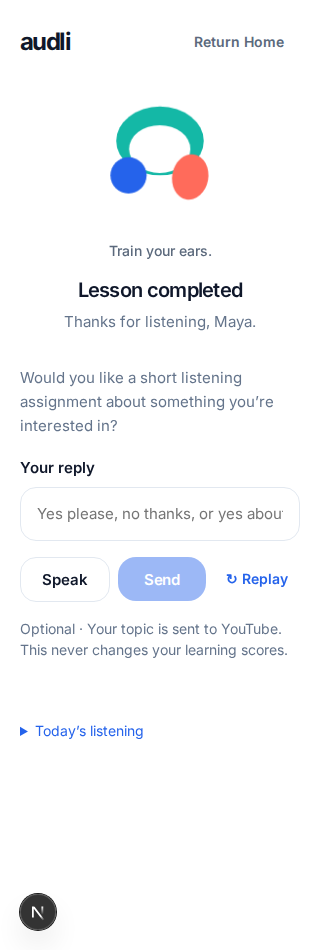
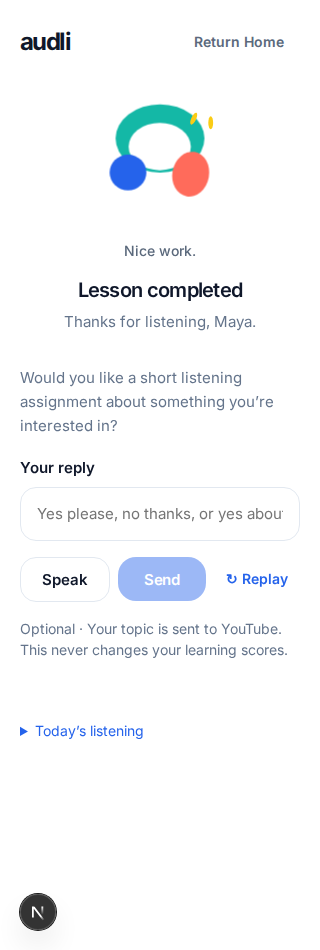
test(AUD-61): align completion and fallback acceptance with inline wrap-up

Changed region(s): [[0.3438, 0.0916, 0.6875, 0.2137], [0.3438, 0.2442, 0.6562, 0.2747]]

diff --git a/web/tests/structured-lesson.spec.ts b/web/tests/structured-lesson.spec.ts
@@ -215,14 +215,15 @@ test('processing acknowledgment is delayed and deduplicated across retry; topic 
   await expect(page.getByRole('heading',{name:'Lesson completed'})).toBeVisible();
 });
 
-for(const reducedMotion of [false,true])test(`completion cards and mascot respect ${reducedMotion?'reduced':'normal'} motion`,async({page})=>{
+for(const reducedMotion of [false,true])test(`compact completion summary and mascot respect ${reducedMotion?'reduced':'normal'} motion`,async({page})=>{
   await page.emulateMedia({reducedMotion:reducedMotion?'reduce':'no-preference'});
   await setup(page);await runToCompletion(page);
   await expect(page.getByRole('heading',{name:'Lesson completed'})).toBeFocused();
-  await expect(page.locator('.completion-card')).toHaveCount(3);
-  await expect(page.locator('.completion-count')).toHaveText('1');
-  await expect(page.locator('.lesson-completion .audli-mascot')).toHaveAttribute('aria-hidden','true');
-  const body=page.locator('.lesson-completion .mascot-body');
+  await expect(page.locator('.wrapup-summary')).not.toHaveAttribute('open');
+  await page.locator('.wrapup-summary summary').click();
+  await expect(page.locator('.wrapup-summary')).toContainText('1 exercise completed');
+  await expect(page.locator('.lesson-wrapup .audli-mascot')).toHaveAttribute('aria-hidden','true');
+  const body=page.locator('.lesson-wrapup .mascot-body');
   const animation=await body.evaluate(node=>getComputedStyle(node).animationName);
   expect(animation).toBe(reducedMotion?'none':'completion-arrive, mascot-breathe');
   if(!reducedMotion)await page.screenshot({path:'/tmp/aud22-completion-polish.png',fullPage:true,animations:'disabled'});

diff --git a/web/app/page.tsx b/web/app/page.tsx
@@ -333,7 +333,7 @@ function Product({ onRestart, reducedMotion, setReducedMotion }: { onRestart: (o
     <p className="sr-only">{prompt}</p>{error && <div role="alert" className="session-error">{error}<p>{prompt}</p><button className="secondary" onClick={retry}>Retry conversation</button>{(retained.current || personalCapture.current) && <button className="secondary" onClick={() => { retained.current = null; personalCapture.current = null; void retry(); }}>Record again</button>}</div>}
     {eligibleExercise && <details className="session-transcript"><summary>Transcript</summary>{transcript ? <p>{transcript.script}</p> : <button className="text-button" onClick={() => void reviewTranscript(eligibleExercise)}>Read transcript</button>}</details>}
   </SessionShell><audio ref={voice.audio} className="session-audio" aria-label="Audli session audio"/></>;
-  if (completion) return <><SessionShell completed state={voice.state === 'Speaking' && !voice.activity ? 'Success' : voice.state} activity={voice.activity} onEnd={() => {
+  if (completion) return <><SessionShell completed state={voice.state === 'Idle' || (voice.state === 'Speaking' && !voice.activity) ? 'Success' : voice.state} activity={voice.activity} onEnd={() => {
     voice.stop(); setHomeworkVoice(false); setWrapupReady(false); setCompletion(null); lesson.current = null;
     try { sessionStorage.removeItem(storageKey); } catch { /* Optional presentation memory. */ }
   }}>

diff --git a/web/tests/lesson-media.spec.ts b/web/tests/lesson-media.spec.ts
@@ -78,8 +78,9 @@ test('real backend multi-exercise lesson plays each introduction and displays pe
     await page.screenshot({path:`/tmp/aud22-topic-${index+1}-listening.png`,fullPage:true});
   }
   await expect(page.getByRole('heading',{name:'Lesson completed'})).toBeVisible({timeout:150000});
-  await expect(page.locator('.completion-count')).toHaveText('2');
-  await expect(page.locator('.completion-results')).toContainText('The larger bag of flour reduced the cost');
+  await page.locator('.wrapup-summary summary').click();
+  await expect(page.locator('.wrapup-summary')).toContainText('2 exercises completed');
+  await expect(page.locator('.wrapup-summary')).toContainText('The larger bag of flour reduced the cost');
   const media = await trace();
   const introductions = media.filter(item=>item.path.endsWith('/introduction-audio'));
   expect(introductions.map(item=>item.event)).toEqual(['playing','ended','playing','ended']);

diff --git a/web/app/globals.css b/web/app/globals.css
@@ -362,6 +362,7 @@ main.audli-loading-screen { max-width: none; min-height: 100svh; margin: 0; bord
 .homework-card :focus-visible { outline: 3px solid #397bc4; outline-offset: 3px; }
 .lesson-wrapup .session-presence { flex: 0 0 auto; min-height: 180px; padding-bottom: 0; }
 .lesson-wrapup .session-presence .audli-mascot { width: clamp(140px, 24vw, 210px); margin: 12px auto; }
+.lesson-wrapup .audli-mascot[data-state="Success"] .mascot-body { animation: completion-arrive .65s ease-out 1, mascot-breathe 4s ease-in-out .65s infinite; }
 .wrapup-heading { font-size: 1.25rem; margin: .5rem 0; }
 .wrapup-heading:focus { outline: none; }
 .lesson-wrapup .listening-homework { margin-block: 1rem; }

diff --git a/tests/test_planner_preflight.py b/tests/test_planner_preflight.py
@@ -70,7 +70,7 @@ def test_start_fallback_generates_audio_and_resumes_normally(lesson_client, monk
         response = client.post('/api/lessons/start')
         assert response.status_code == 200, response.text
         lesson = repo.lesson()
-        assert lesson.plan_number is None and lesson.plan_topic is None
+        assert lesson.plan_number is None and lesson.plan_topic == before.interests[0]
         assert lesson.focus == before.focus and repo.profile() == before
         assert 'PRIVATE' not in caplog.text and 'PRIVATE' not in response.text
         lesson.phase = 'EXERCISE'; repo.save_lesson(lesson, lesson.revision)
